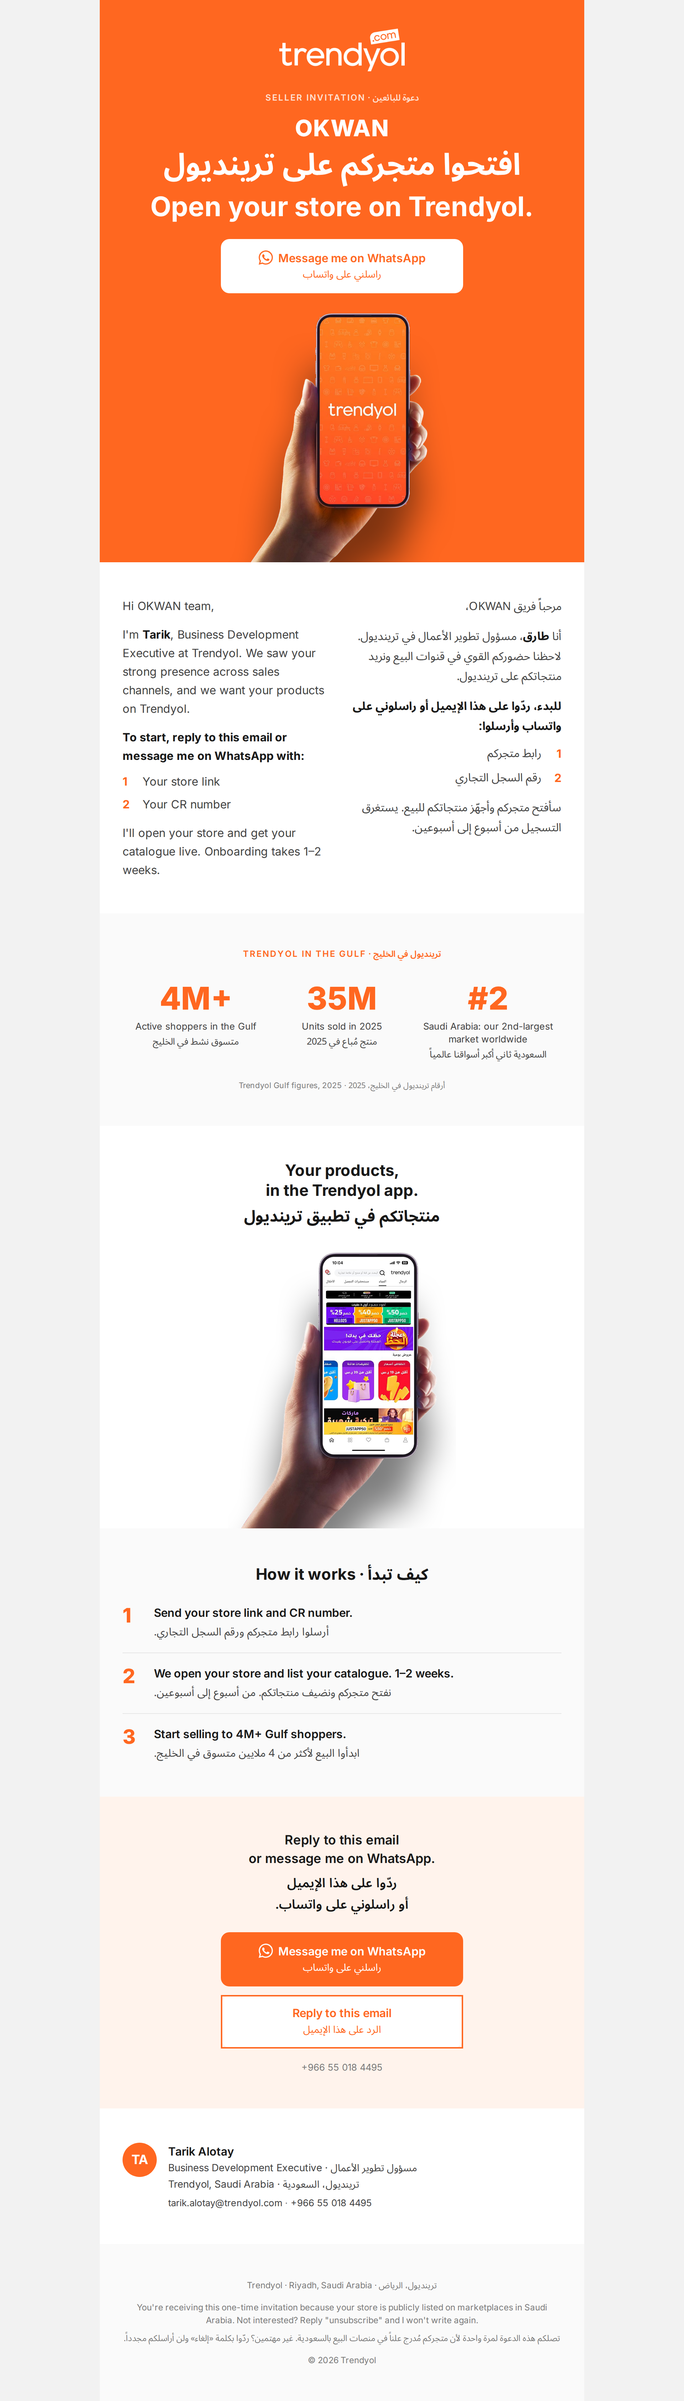
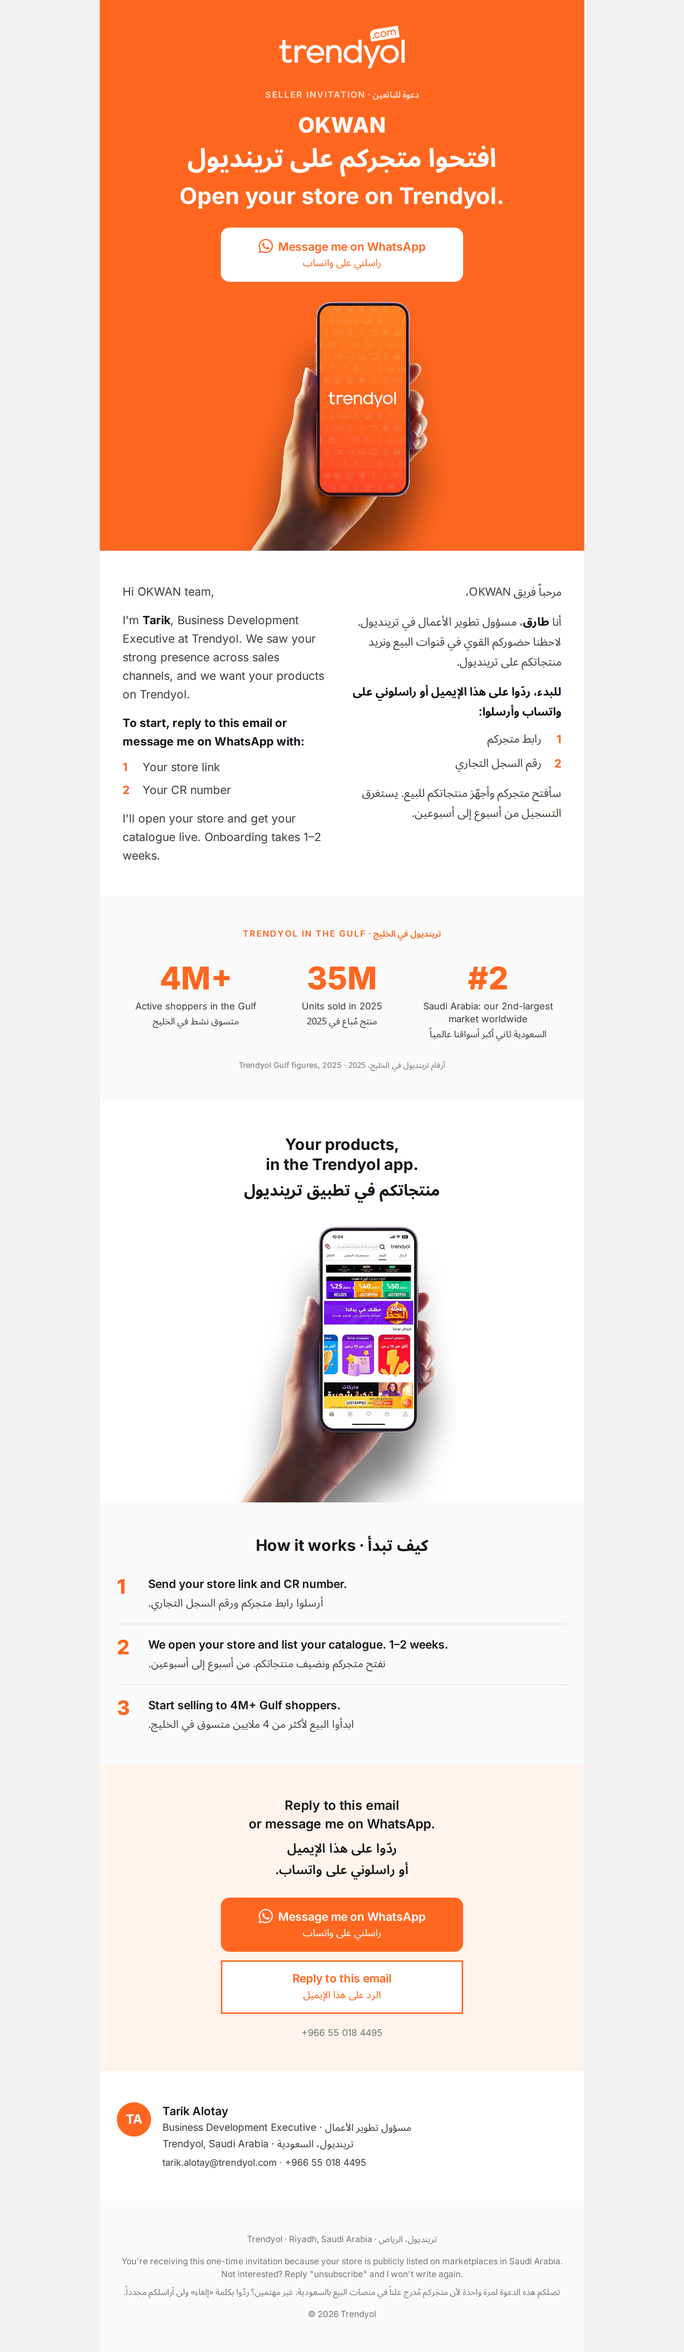
Harden layout for senders that strip the style block
Headline sizes, section padding, column and stat gaps now work inline
without media queries; the media query only adds the divider on phone.

Claude-Session: https://claude.ai/code/session_01K3ZpNdL1jY4TwxZkSQMzGh

diff --git a/trendyol-seller-outreach-email/email.html b/trendyol-seller-outreach-email/email.html
@@ -19,17 +19,10 @@ a { color:#FF6720; }
 .ExternalClass { width:100%; }
 .ExternalClass, .ExternalClass p, .ExternalClass span, .ExternalClass font, .ExternalClass td, .ExternalClass div { line-height:100%; }
 @media only screen and (max-width:620px) {
-  .hero-pad { padding:36px 24px 0 24px !important; }
-  .sec-pad { padding:36px 24px !important; }
-  .sec-pad-b0 { padding:36px 24px 0 24px !important; }
-  .h1-ar { font-size:34px !important; line-height:44px !important; }
-  .h1-en { font-size:30px !important; line-height:36px !important; }
-  .h1-name { font-size:28px !important; line-height:34px !important; }
   .col { max-width:100% !important; }
-  .col-ar { padding-left:0 !important; padding-bottom:28px !important; }
+  .col-ar { padding-left:0 !important; }
   .col-en { padding-right:0 !important; padding-top:28px !important; border-top:1px solid #E6E6E6; }
   .stat { max-width:100% !important; }
-  .stat-gap { padding-top:24px !important; }
 }
 </style>
 </head>
@@ -46,7 +39,7 @@ a { color:#FF6720; }
 
 <!-- =============================================================== HERO -->
 <tr>
-<td class="hero-pad" bgcolor="#FF6720" align="center" style="padding:40px 32px 0 32px; background-color:#FF6720; text-align:center;">
+<td class="hero-pad" bgcolor="#FF6720" align="center" style="padding:36px 24px 0 24px; background-color:#FF6720; text-align:center;">
 
 <table role="presentation" cellpadding="0" cellspacing="0" border="0" width="100%" style="width:100%; border-collapse:collapse;">
 
@@ -67,13 +60,13 @@ a { color:#FF6720; }
 <td align="center" style="padding:0; text-align:center;">
 <table role="presentation" cellpadding="0" cellspacing="0" border="0" align="center" width="600" style="width:100%; max-width:600px; margin:0 auto; border-collapse:collapse;">
 <tr>
-<td class="h1-name" lang="en" dir="ltr" align="center" style="padding:0 0 6px 0; text-align:center; font-family:'Inter','Helvetica Neue',Helvetica,Arial,sans-serif; font-size:32px; line-height:38px; font-weight:800; letter-spacing:0.5px; color:#FFFFFF;">{{seller_name}}</td>
+<td class="h1-name" lang="en" dir="ltr" align="center" style="padding:0 0 6px 0; text-align:center; font-family:'Inter','Helvetica Neue',Helvetica,Arial,sans-serif; font-size:30px; line-height:36px; font-weight:800; letter-spacing:0.5px; color:#FFFFFF;">{{seller_name}}</td>
 </tr>
 <tr>
-<td class="h1-ar" lang="ar" dir="rtl" align="center" style="padding:0 0 8px 0; text-align:center; font-family:'Noto Sans Arabic','Segoe UI',Tahoma,Arial,sans-serif; font-size:42px; line-height:54px; font-weight:700; color:#FFFFFF;">افتحوا متجركم على ترينديول</td>
+<td class="h1-ar" lang="ar" dir="rtl" align="center" style="padding:0 0 8px 0; text-align:center; font-family:'Noto Sans Arabic','Segoe UI',Tahoma,Arial,sans-serif; font-size:36px; line-height:48px; font-weight:700; color:#FFFFFF;">افتحوا متجركم على ترينديول</td>
 </tr>
 <tr>
-<td class="h1-en" lang="en" dir="ltr" align="center" style="padding:0 0 24px 0; text-align:center; font-family:'Inter','Helvetica Neue',Helvetica,Arial,sans-serif; font-size:38px; line-height:44px; font-weight:700; color:#FFFFFF;">Open your store on Trendyol.</td>
+<td class="h1-en" lang="en" dir="ltr" align="center" style="padding:0 0 24px 0; text-align:center; font-family:'Inter','Helvetica Neue',Helvetica,Arial,sans-serif; font-size:32px; line-height:40px; font-weight:700; color:#FFFFFF;">Open your store on Trendyol.</td>
 </tr>
 </table>
 </td>
@@ -105,7 +98,7 @@ a { color:#FF6720; }
 
 <!-- ============================================= PERSONAL MESSAGE (2 col) -->
 <tr>
-<td class="sec-pad" bgcolor="#FFFFFF" align="center" style="padding:48px 32px; background-color:#FFFFFF;">
+<td class="sec-pad" bgcolor="#FFFFFF" align="center" style="padding:44px 24px; background-color:#FFFFFF;">
 
 <table role="presentation" cellpadding="0" cellspacing="0" border="0" width="100%" style="width:100%; border-collapse:collapse;">
 <tr>
@@ -117,7 +110,7 @@ a { color:#FF6720; }
 <div class="col" style="display:inline-block; width:100%; max-width:308px; vertical-align:top;">
 <table role="presentation" dir="rtl" cellpadding="0" cellspacing="0" border="0" width="100%" style="width:100%; border-collapse:collapse;">
 <tr>
-<td class="col-ar" lang="ar" dir="rtl" align="right" style="padding:0 0 0 14px; text-align:right; font-family:'Noto Sans Arabic','Segoe UI',Tahoma,Arial,sans-serif; font-size:16px; line-height:28px; font-weight:400; color:#434343;">
+<td class="col-ar" lang="ar" dir="rtl" align="right" style="padding:0 0 28px 14px; text-align:right; font-family:'Noto Sans Arabic','Segoe UI',Tahoma,Arial,sans-serif; font-size:16px; line-height:28px; font-weight:400; color:#434343;">
 
 <table role="presentation" dir="rtl" cellpadding="0" cellspacing="0" border="0" width="100%" style="width:100%; border-collapse:collapse;">
 <tr>
@@ -206,7 +199,7 @@ a { color:#FF6720; }
 
 <!-- ========================================================= STATS BAND -->
 <tr>
-<td class="sec-pad" bgcolor="#FAFAFA" align="center" style="padding:48px 32px; background-color:#FAFAFA;">
+<td class="sec-pad" bgcolor="#FAFAFA" align="center" style="padding:44px 24px; background-color:#FAFAFA;">
 
 <table role="presentation" cellpadding="0" cellspacing="0" border="0" width="100%" style="width:100%; border-collapse:collapse;">
 
@@ -222,7 +215,7 @@ a { color:#FF6720; }
 <div class="stat" style="display:inline-block; width:100%; max-width:205px; vertical-align:top;">
 <table role="presentation" cellpadding="0" cellspacing="0" border="0" width="100%" style="width:100%; border-collapse:collapse;">
 <tr>
-<td align="center" style="padding:0 6px; text-align:center;">
+<td align="center" style="padding:0 6px 20px 6px; text-align:center;">
 <table role="presentation" cellpadding="0" cellspacing="0" border="0" width="100%" style="width:100%; border-collapse:collapse;">
 <tr><td align="center" style="padding:0 0 6px 0; text-align:center; font-family:'Inter','Helvetica Neue',Helvetica,Arial,sans-serif; font-size:44px; line-height:48px; font-weight:800; color:#FF6720;">4M+</td></tr>
 <tr><td align="center" style="padding:0; text-align:center; font-family:'Inter','Helvetica Neue',Helvetica,Arial,sans-serif; font-size:13px; line-height:18px; font-weight:400; color:#434343;">Active shoppers in the Gulf</td></tr>
@@ -238,7 +231,7 @@ a { color:#FF6720; }
 <div class="stat" style="display:inline-block; width:100%; max-width:205px; vertical-align:top;">
 <table role="presentation" cellpadding="0" cellspacing="0" border="0" width="100%" style="width:100%; border-collapse:collapse;">
 <tr>
-<td class="stat-gap" align="center" style="padding:0 6px; text-align:center;">
+<td align="center" style="padding:0 6px 20px 6px; text-align:center;">
 <table role="presentation" cellpadding="0" cellspacing="0" border="0" width="100%" style="width:100%; border-collapse:collapse;">
 <tr><td align="center" style="padding:0 0 6px 0; text-align:center; font-family:'Inter','Helvetica Neue',Helvetica,Arial,sans-serif; font-size:44px; line-height:48px; font-weight:800; color:#FF6720;">35M</td></tr>
 <tr><td align="center" style="padding:0; text-align:center; font-family:'Inter','Helvetica Neue',Helvetica,Arial,sans-serif; font-size:13px; line-height:18px; font-weight:400; color:#434343;">Units sold in 2025</td></tr>
@@ -254,7 +247,7 @@ a { color:#FF6720; }
 <div class="stat" style="display:inline-block; width:100%; max-width:205px; vertical-align:top;">
 <table role="presentation" cellpadding="0" cellspacing="0" border="0" width="100%" style="width:100%; border-collapse:collapse;">
 <tr>
-<td class="stat-gap" align="center" style="padding:0 6px; text-align:center;">
+<td align="center" style="padding:0 6px 20px 6px; text-align:center;">
 <table role="presentation" cellpadding="0" cellspacing="0" border="0" width="100%" style="width:100%; border-collapse:collapse;">
 <tr><td align="center" style="padding:0 0 6px 0; text-align:center; font-family:'Inter','Helvetica Neue',Helvetica,Arial,sans-serif; font-size:44px; line-height:48px; font-weight:800; color:#FF6720;">#2</td></tr>
 <tr><td align="center" style="padding:0; text-align:center; font-family:'Inter','Helvetica Neue',Helvetica,Arial,sans-serif; font-size:13px; line-height:18px; font-weight:400; color:#434343;">Saudi Arabia: our 2nd-largest market worldwide</td></tr>
@@ -271,7 +264,7 @@ a { color:#FF6720; }
 </tr>
 
 <tr>
-<td align="center" style="padding:24px 0 0 0; text-align:center; font-family:'Inter','Helvetica Neue',Helvetica,Arial,sans-serif; font-size:11px; line-height:16px; font-weight:400; color:#7A7A7A;">Trendyol Gulf figures, 2025 &middot; <span lang="ar" dir="rtl" style="font-family:'Noto Sans Arabic','Segoe UI',Tahoma,Arial,sans-serif; font-size:11px; line-height:16px; color:#7A7A7A;">أرقام ترينديول في الخليج، 2025</span></td>
+<td align="center" style="padding:4px 0 0 0; text-align:center; font-family:'Inter','Helvetica Neue',Helvetica,Arial,sans-serif; font-size:11px; line-height:16px; font-weight:400; color:#7A7A7A;">Trendyol Gulf figures, 2025 &middot; <span lang="ar" dir="rtl" style="font-family:'Noto Sans Arabic','Segoe UI',Tahoma,Arial,sans-serif; font-size:11px; line-height:16px; color:#7A7A7A;">أرقام ترينديول في الخليج، 2025</span></td>
 </tr>
 
 </table>
@@ -280,7 +273,7 @@ a { color:#FF6720; }
 
 <!-- ====================================================== APP SHOWCASE -->
 <tr>
-<td class="sec-pad-b0" bgcolor="#FFFFFF" align="center" style="padding:48px 32px 0 32px; background-color:#FFFFFF; text-align:center;">
+<td class="sec-pad-b0" bgcolor="#FFFFFF" align="center" style="padding:44px 24px 0 24px; background-color:#FFFFFF; text-align:center;">
 
 <table role="presentation" cellpadding="0" cellspacing="0" border="0" width="100%" style="width:100%; border-collapse:collapse;">
 <tr>
@@ -301,7 +294,7 @@ a { color:#FF6720; }
 
 <!-- ======================================================= HOW IT WORKS -->
 <tr>
-<td class="sec-pad" bgcolor="#FAFAFA" align="center" style="padding:48px 32px; background-color:#FAFAFA;">
+<td class="sec-pad" bgcolor="#FAFAFA" align="center" style="padding:44px 24px; background-color:#FAFAFA;">
 
 <table role="presentation" cellpadding="0" cellspacing="0" border="0" width="100%" style="width:100%; border-collapse:collapse;">
 <tr>
@@ -344,7 +337,7 @@ a { color:#FF6720; }
 
 <!-- ========================================================== CTA PANEL -->
 <tr>
-<td class="sec-pad" bgcolor="#FFF3EC" align="center" style="padding:48px 32px; background-color:#FFF3EC; text-align:center;">
+<td class="sec-pad" bgcolor="#FFF3EC" align="center" style="padding:44px 24px; background-color:#FFF3EC; text-align:center;">
 
 <table role="presentation" cellpadding="0" cellspacing="0" border="0" width="100%" style="width:100%; border-collapse:collapse;">
 
@@ -391,7 +384,7 @@ a { color:#FF6720; }
 
 <!-- ========================================================== SIGNATURE -->
 <tr>
-<td class="sec-pad" bgcolor="#FFFFFF" align="left" style="padding:48px 32px; background-color:#FFFFFF;">
+<td class="sec-pad" bgcolor="#FFFFFF" align="left" style="padding:44px 24px; background-color:#FFFFFF;">
 
 <table role="presentation" cellpadding="0" cellspacing="0" border="0" width="100%" style="width:100%; border-collapse:collapse;">
 <tr>
@@ -418,7 +411,7 @@ a { color:#FF6720; }
 
 <!-- ============================================================= FOOTER -->
 <tr>
-<td class="sec-pad" bgcolor="#FAFAFA" align="center" style="padding:48px 32px; background-color:#FAFAFA; text-align:center;">
+<td class="sec-pad" bgcolor="#FAFAFA" align="center" style="padding:44px 24px; background-color:#FAFAFA; text-align:center;">
 
 <table role="presentation" cellpadding="0" cellspacing="0" border="0" width="100%" style="width:100%; border-collapse:collapse;">
 <tr>

diff --git a/trendyol-seller-outreach-email/output/email-okwan-sample.html b/trendyol-seller-outreach-email/output/email-okwan-sample.html
@@ -19,17 +19,10 @@ a { color:#FF6720; }
 .ExternalClass { width:100%; }
 .ExternalClass, .ExternalClass p, .ExternalClass span, .ExternalClass font, .ExternalClass td, .ExternalClass div { line-height:100%; }
 @media only screen and (max-width:620px) {
-  .hero-pad { padding:36px 24px 0 24px !important; }
-  .sec-pad { padding:36px 24px !important; }
-  .sec-pad-b0 { padding:36px 24px 0 24px !important; }
-  .h1-ar { font-size:34px !important; line-height:44px !important; }
-  .h1-en { font-size:30px !important; line-height:36px !important; }
-  .h1-name { font-size:28px !important; line-height:34px !important; }
   .col { max-width:100% !important; }
-  .col-ar { padding-left:0 !important; padding-bottom:28px !important; }
+  .col-ar { padding-left:0 !important; }
   .col-en { padding-right:0 !important; padding-top:28px !important; border-top:1px solid #E6E6E6; }
   .stat { max-width:100% !important; }
-  .stat-gap { padding-top:24px !important; }
 }
 </style>
 </head>
@@ -46,7 +39,7 @@ a { color:#FF6720; }
 
 <!-- =============================================================== HERO -->
 <tr>
-<td class="hero-pad" bgcolor="#FF6720" align="center" style="padding:40px 32px 0 32px; background-color:#FF6720; text-align:center;">
+<td class="hero-pad" bgcolor="#FF6720" align="center" style="padding:36px 24px 0 24px; background-color:#FF6720; text-align:center;">
 
 <table role="presentation" cellpadding="0" cellspacing="0" border="0" width="100%" style="width:100%; border-collapse:collapse;">
 
@@ -67,13 +60,13 @@ a { color:#FF6720; }
 <td align="center" style="padding:0; text-align:center;">
 <table role="presentation" cellpadding="0" cellspacing="0" border="0" align="center" width="600" style="width:100%; max-width:600px; margin:0 auto; border-collapse:collapse;">
 <tr>
-<td class="h1-name" lang="en" dir="ltr" align="center" style="padding:0 0 6px 0; text-align:center; font-family:'Inter','Helvetica Neue',Helvetica,Arial,sans-serif; font-size:32px; line-height:38px; font-weight:800; letter-spacing:0.5px; color:#FFFFFF;">OKWAN</td>
+<td class="h1-name" lang="en" dir="ltr" align="center" style="padding:0 0 6px 0; text-align:center; font-family:'Inter','Helvetica Neue',Helvetica,Arial,sans-serif; font-size:30px; line-height:36px; font-weight:800; letter-spacing:0.5px; color:#FFFFFF;">OKWAN</td>
 </tr>
 <tr>
-<td class="h1-ar" lang="ar" dir="rtl" align="center" style="padding:0 0 8px 0; text-align:center; font-family:'Noto Sans Arabic','Segoe UI',Tahoma,Arial,sans-serif; font-size:42px; line-height:54px; font-weight:700; color:#FFFFFF;">افتحوا متجركم على ترينديول</td>
+<td class="h1-ar" lang="ar" dir="rtl" align="center" style="padding:0 0 8px 0; text-align:center; font-family:'Noto Sans Arabic','Segoe UI',Tahoma,Arial,sans-serif; font-size:36px; line-height:48px; font-weight:700; color:#FFFFFF;">افتحوا متجركم على ترينديول</td>
 </tr>
 <tr>
-<td class="h1-en" lang="en" dir="ltr" align="center" style="padding:0 0 24px 0; text-align:center; font-family:'Inter','Helvetica Neue',Helvetica,Arial,sans-serif; font-size:38px; line-height:44px; font-weight:700; color:#FFFFFF;">Open your store on Trendyol.</td>
+<td class="h1-en" lang="en" dir="ltr" align="center" style="padding:0 0 24px 0; text-align:center; font-family:'Inter','Helvetica Neue',Helvetica,Arial,sans-serif; font-size:32px; line-height:40px; font-weight:700; color:#FFFFFF;">Open your store on Trendyol.</td>
 </tr>
 </table>
 </td>
@@ -105,7 +98,7 @@ a { color:#FF6720; }
 
 <!-- ============================================= PERSONAL MESSAGE (2 col) -->
 <tr>
-<td class="sec-pad" bgcolor="#FFFFFF" align="center" style="padding:48px 32px; background-color:#FFFFFF;">
+<td class="sec-pad" bgcolor="#FFFFFF" align="center" style="padding:44px 24px; background-color:#FFFFFF;">
 
 <table role="presentation" cellpadding="0" cellspacing="0" border="0" width="100%" style="width:100%; border-collapse:collapse;">
 <tr>
@@ -117,7 +110,7 @@ a { color:#FF6720; }
 <div class="col" style="display:inline-block; width:100%; max-width:308px; vertical-align:top;">
 <table role="presentation" dir="rtl" cellpadding="0" cellspacing="0" border="0" width="100%" style="width:100%; border-collapse:collapse;">
 <tr>
-<td class="col-ar" lang="ar" dir="rtl" align="right" style="padding:0 0 0 14px; text-align:right; font-family:'Noto Sans Arabic','Segoe UI',Tahoma,Arial,sans-serif; font-size:16px; line-height:28px; font-weight:400; color:#434343;">
+<td class="col-ar" lang="ar" dir="rtl" align="right" style="padding:0 0 28px 14px; text-align:right; font-family:'Noto Sans Arabic','Segoe UI',Tahoma,Arial,sans-serif; font-size:16px; line-height:28px; font-weight:400; color:#434343;">
 
 <table role="presentation" dir="rtl" cellpadding="0" cellspacing="0" border="0" width="100%" style="width:100%; border-collapse:collapse;">
 <tr>
@@ -206,7 +199,7 @@ a { color:#FF6720; }
 
 <!-- ========================================================= STATS BAND -->
 <tr>
-<td class="sec-pad" bgcolor="#FAFAFA" align="center" style="padding:48px 32px; background-color:#FAFAFA;">
+<td class="sec-pad" bgcolor="#FAFAFA" align="center" style="padding:44px 24px; background-color:#FAFAFA;">
 
 <table role="presentation" cellpadding="0" cellspacing="0" border="0" width="100%" style="width:100%; border-collapse:collapse;">
 
@@ -222,7 +215,7 @@ a { color:#FF6720; }
 <div class="stat" style="display:inline-block; width:100%; max-width:205px; vertical-align:top;">
 <table role="presentation" cellpadding="0" cellspacing="0" border="0" width="100%" style="width:100%; border-collapse:collapse;">
 <tr>
-<td align="center" style="padding:0 6px; text-align:center;">
+<td align="center" style="padding:0 6px 20px 6px; text-align:center;">
 <table role="presentation" cellpadding="0" cellspacing="0" border="0" width="100%" style="width:100%; border-collapse:collapse;">
 <tr><td align="center" style="padding:0 0 6px 0; text-align:center; font-family:'Inter','Helvetica Neue',Helvetica,Arial,sans-serif; font-size:44px; line-height:48px; font-weight:800; color:#FF6720;">4M+</td></tr>
 <tr><td align="center" style="padding:0; text-align:center; font-family:'Inter','Helvetica Neue',Helvetica,Arial,sans-serif; font-size:13px; line-height:18px; font-weight:400; color:#434343;">Active shoppers in the Gulf</td></tr>
@@ -238,7 +231,7 @@ a { color:#FF6720; }
 <div class="stat" style="display:inline-block; width:100%; max-width:205px; vertical-align:top;">
 <table role="presentation" cellpadding="0" cellspacing="0" border="0" width="100%" style="width:100%; border-collapse:collapse;">
 <tr>
-<td class="stat-gap" align="center" style="padding:0 6px; text-align:center;">
+<td align="center" style="padding:0 6px 20px 6px; text-align:center;">
 <table role="presentation" cellpadding="0" cellspacing="0" border="0" width="100%" style="width:100%; border-collapse:collapse;">
 <tr><td align="center" style="padding:0 0 6px 0; text-align:center; font-family:'Inter','Helvetica Neue',Helvetica,Arial,sans-serif; font-size:44px; line-height:48px; font-weight:800; color:#FF6720;">35M</td></tr>
 <tr><td align="center" style="padding:0; text-align:center; font-family:'Inter','Helvetica Neue',Helvetica,Arial,sans-serif; font-size:13px; line-height:18px; font-weight:400; color:#434343;">Units sold in 2025</td></tr>
@@ -254,7 +247,7 @@ a { color:#FF6720; }
 <div class="stat" style="display:inline-block; width:100%; max-width:205px; vertical-align:top;">
 <table role="presentation" cellpadding="0" cellspacing="0" border="0" width="100%" style="width:100%; border-collapse:collapse;">
 <tr>
-<td class="stat-gap" align="center" style="padding:0 6px; text-align:center;">
+<td align="center" style="padding:0 6px 20px 6px; text-align:center;">
 <table role="presentation" cellpadding="0" cellspacing="0" border="0" width="100%" style="width:100%; border-collapse:collapse;">
 <tr><td align="center" style="padding:0 0 6px 0; text-align:center; font-family:'Inter','Helvetica Neue',Helvetica,Arial,sans-serif; font-size:44px; line-height:48px; font-weight:800; color:#FF6720;">#2</td></tr>
 <tr><td align="center" style="padding:0; text-align:center; font-family:'Inter','Helvetica Neue',Helvetica,Arial,sans-serif; font-size:13px; line-height:18px; font-weight:400; color:#434343;">Saudi Arabia: our 2nd-largest market worldwide</td></tr>
@@ -271,7 +264,7 @@ a { color:#FF6720; }
 </tr>
 
 <tr>
-<td align="center" style="padding:24px 0 0 0; text-align:center; font-family:'Inter','Helvetica Neue',Helvetica,Arial,sans-serif; font-size:11px; line-height:16px; font-weight:400; color:#7A7A7A;">Trendyol Gulf figures, 2025 &middot; <span lang="ar" dir="rtl" style="font-family:'Noto Sans Arabic','Segoe UI',Tahoma,Arial,sans-serif; font-size:11px; line-height:16px; color:#7A7A7A;">أرقام ترينديول في الخليج، 2025</span></td>
+<td align="center" style="padding:4px 0 0 0; text-align:center; font-family:'Inter','Helvetica Neue',Helvetica,Arial,sans-serif; font-size:11px; line-height:16px; font-weight:400; color:#7A7A7A;">Trendyol Gulf figures, 2025 &middot; <span lang="ar" dir="rtl" style="font-family:'Noto Sans Arabic','Segoe UI',Tahoma,Arial,sans-serif; font-size:11px; line-height:16px; color:#7A7A7A;">أرقام ترينديول في الخليج، 2025</span></td>
 </tr>
 
 </table>
@@ -280,7 +273,7 @@ a { color:#FF6720; }
 
 <!-- ====================================================== APP SHOWCASE -->
 <tr>
-<td class="sec-pad-b0" bgcolor="#FFFFFF" align="center" style="padding:48px 32px 0 32px; background-color:#FFFFFF; text-align:center;">
+<td class="sec-pad-b0" bgcolor="#FFFFFF" align="center" style="padding:44px 24px 0 24px; background-color:#FFFFFF; text-align:center;">
 
 <table role="presentation" cellpadding="0" cellspacing="0" border="0" width="100%" style="width:100%; border-collapse:collapse;">
 <tr>
@@ -301,7 +294,7 @@ a { color:#FF6720; }
 
 <!-- ======================================================= HOW IT WORKS -->
 <tr>
-<td class="sec-pad" bgcolor="#FAFAFA" align="center" style="padding:48px 32px; background-color:#FAFAFA;">
+<td class="sec-pad" bgcolor="#FAFAFA" align="center" style="padding:44px 24px; background-color:#FAFAFA;">
 
 <table role="presentation" cellpadding="0" cellspacing="0" border="0" width="100%" style="width:100%; border-collapse:collapse;">
 <tr>
@@ -344,7 +337,7 @@ a { color:#FF6720; }
 
 <!-- ========================================================== CTA PANEL -->
 <tr>
-<td class="sec-pad" bgcolor="#FFF3EC" align="center" style="padding:48px 32px; background-color:#FFF3EC; text-align:center;">
+<td class="sec-pad" bgcolor="#FFF3EC" align="center" style="padding:44px 24px; background-color:#FFF3EC; text-align:center;">
 
 <table role="presentation" cellpadding="0" cellspacing="0" border="0" width="100%" style="width:100%; border-collapse:collapse;">
 
@@ -391,7 +384,7 @@ a { color:#FF6720; }
 
 <!-- ========================================================== SIGNATURE -->
 <tr>
-<td class="sec-pad" bgcolor="#FFFFFF" align="left" style="padding:48px 32px; background-color:#FFFFFF;">
+<td class="sec-pad" bgcolor="#FFFFFF" align="left" style="padding:44px 24px; background-color:#FFFFFF;">
 
 <table role="presentation" cellpadding="0" cellspacing="0" border="0" width="100%" style="width:100%; border-collapse:collapse;">
 <tr>
@@ -418,7 +411,7 @@ a { color:#FF6720; }
 
 <!-- ============================================================= FOOTER -->
 <tr>
-<td class="sec-pad" bgcolor="#FAFAFA" align="center" style="padding:48px 32px; background-color:#FAFAFA; text-align:center;">
+<td class="sec-pad" bgcolor="#FAFAFA" align="center" style="padding:44px 24px; background-color:#FAFAFA; text-align:center;">
 
 <table role="presentation" cellpadding="0" cellspacing="0" border="0" width="100%" style="width:100%; border-collapse:collapse;">
 <tr>
